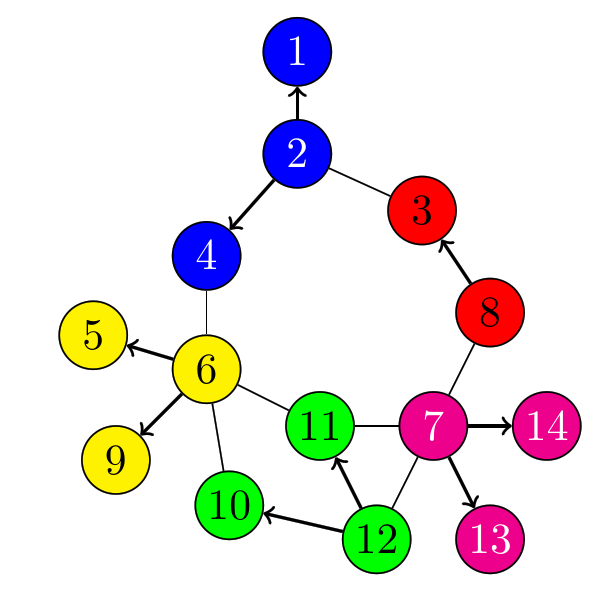
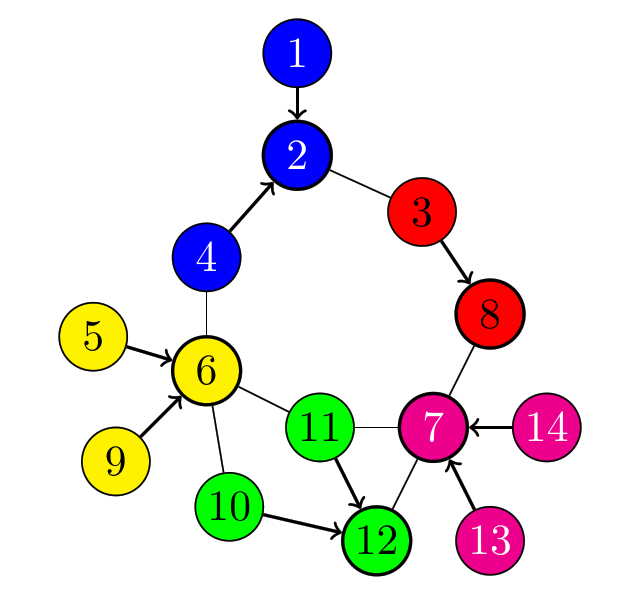
worked on the use case "capacitated dominating set" (documentation); described problem and a simple program.

Changed region(s): [[0.0928, 0.0304, 0.9593, 0.973]]

diff --git a/doc/resources/users/use-cases/u1.md b/doc/resources/users/use-cases/u1.md
@@ -1,37 +1,124 @@
-# How to solve your first problem # {#u1}
-In this use case, we develop a branch-and-price algorithm for a combinatorial optimization problem
-without writing a single line of code. We only need to be able formulate our problem as a (mixed)
-integer program. For that we will use the \ZIMPL modeling language.
+# Branch-and-price without a single line of code # {#u1}
 
- capacitated dominating set problem
-
-\cite gcg:Li-etal:2018
-
-After that, we convert it to a solver-readable format using \ZIMPL.
-Finally, we will solve the problem with \GCG. 
-
-**The Problem**
-The Dominating Set problem is a classic NP-complete optimization problem defined as follows. For an
-undirected graph \f$G\f$ with vertex set \f$V\f$ , a dominating set \f$S\f$ is a subset of \f$V\f$ such that every vertex \f$v \in V\f$ is
-either in \f$S\f$ or adjacent to a vertex in \f$S\f$.
+> In this first use case, we develop a branch-and-price algorithm for
+> a combinatorial optimization problem without writing a single line
+> of code. We only need to be able formulate our problem as a (mixed)
+> integer program. For that we will use the \ZIMPL modeling language.
 
 
+#### The Problem ####
 
-\image html cds-graph-potluri.png "example graph where all nodes have capacity 2" width=50%
+We consider a variant of a classic NP-hard combinatorial optimization
+problem. Given an undirected graph \f$G=(V,E)\f$, a *dominating set*
+\f$S\subseteq V\f$ is a subset of the vertices, such that every vertex
+\f$i \in V\f$ is in \f$S\f$ or adjacent to a vertex in \f$S\f$. We say
+that every vertex not in \f$S\f$ is *dominated* by a vertex in
+\f$S\f$. For the *capacitated dominating set problem* we are
+additionally given vertex weights \f$u:V\rightarrow
+\mathbb{Z}_+\f$. Loosely speaking, every vertex \f$i \in V\f$ can
+dominate at most \f$u(i)\f$ many other vertices. More formally, a
+subset \f$S\subseteq V\f$ is a capacitated dominating set if and only
+if there exists a mapping \f$f:V\setminus S\rightarrow S\f$ such that
+the number of vertices mapped under \f$f\f$ to \f$i\in S\f$ is no more
+than \f$u(i)\f$.
 
 
-The example is taken from \cite gcg:PotluriSingh:2012,  all nodes have capacity 2, and a minimum capacitated dominated set consists of \f$S=\{2,6,7,8,12\}\f$.
 
-**Mixed Integer Program**
+The following example graph is taken from \cite gcg:PotluriSingh:2012. 
+All vertices have capacity 2, and a minimum capacitated dominated set
+consists of e.g., \f$S=\{2,6,7,8,12\}\f$. An arc \f$(i,j)\f$ is
+interpreted as ''\f$i\f$ is dominated by \f$j\f$,'' representing a 
+possible mapping \f$f\f$.
 
-\f{aligned}{
-  & \underset{x}{\text{min}}
-  & & c^T x \\
-  & \text{s.t.} & &  Ax \leq b_i \\
-  & & &  \sum_{i=1}^{n} x_i =1 \\
-  & & &  x_j, \; \forall j \in N. \\
+\image html cds-graph-potluri.png "example graph where all vertices have capacity 2" width=50%
+
+
+
+#### A Binary Program ####
+
+The following intuitive model was presented in \cite gcg:Li-etal:2018
+(actually, we corrected it a bit). We use variables
+\f$x_i\in\{0,1\}\f$, \f$i\in V\f$, to represent whether \f$i\in S\f$,
+i.e., it is in the dominating set or not. The mapping \f$f\f$ is
+represented by variables \f$y_{ij}\in\{0,1\}\f$, \f$\{i,j\}\in E\f$,
+that we interpret as \f$y_{ij}=1 \iff f(j)=i\f$, that is, when \f$j\f$
+is dominated by \f$i\f$. Define \f$N(i)=\{j\in V : \{i,j\}\in E\}\f$
+as the set of *neighbors* of \f$i\in V\f$.
+
+
+\f{align}{
+  & \text{min}
+  & & \sum_{i\in V}x_i \\
+  & \text{s.t.} & & \sum_{j\in N(i)} y_{ji} \geq 1 - x_i & i\in V \\
+  & & & \sum_{j\in N(i)} y_{ij} \leq u_i x_i & i\in V \\
+  & & & y_{ij} \leq x_i & i\not=j\in V \\
+  & & & x_i\in\{0,1\} & i\in V \\
+  & & & y_{ij}\in\{0,1\} & \{i,j\}\in E 
   \f}
 
-**Conversion using \ZIMPL**
+The objective function minimizes \f$|S|\f$. Every vertex is dominated
+by a neighbor or is itself in \f$S\f$; and no vertex can dominate more
+vertices than given by its capacity (the capacity is available only if
+the vertex is in \f$S\f$). The linking constraints ensure that a
+vertex can dominate another only when it is selected in \f$S\f$.
+
+A \ZIMPL model file ([download](potluri+singh.zpl)) for the above instance is as follows: 
+
+```
+# vertices 
+set V := {1 .. 14};
+# (undirected) edges
+set E := {<1,2>, <2,3>, <2,4>, <4,6>, <3,8>, <7,8>, <5,6>, <6,9>, <6,10>, <6,11>, <7,11>, <7,12>, <7,13>, <7,14>, <10,12>, <11,12>};
+# (directed) arcs, produced from (undirected) edges
+set A := E union {<j,i> in V*V with <i,j> in E};
+
+# uniform capacity of 2 for each vertex
+param cap[<v> in V] := 2;
+
+# neighbors of v
+defset N(v) := {<i> in V with <v,i> in A};
+
+
+# is v selected in the dominating set?
+var x[V] binary;
+
+# for <i,j> in A: is j dominated by i?
+var y[A] binary;
+
+
+minimize cost: sum<v> in V: x[v];
+
+# every vertex v must be dominated by some vertex i (unless v is selected)
+subto dominate:
+	forall <v> in V: sum<i> in N(v): y[i,v] >= 1 - x[v];
+
+# the domination capacity of each vertex must be respected
+subto capacity:
+	forall <v> in V: sum<i> in N(v): y[v,i] <= x[v]*cap[v];
+
+# link the y and the x variables
+subto link:
+	forall <v> in V: forall <i> in N(v): y[v,i] <= x[v];
+
+```    
+    
+
+Of course, you can use any modeling language you like, or generate your model (typically in `*.lp` or `*.mps` format) using a script. A bonus from using \ZIMPL is that \GCG can directly read the model file.
+
+
+
+If you are interested, Potluri and Singh \cite gcg:PotluriSingh:2012 made all their instances [publicly available for download](http://scis.uohyd.ac.in/~apcs/capmds/), together with the `C` code for their heuristics. We provide \ZIMPL model files that read their input, for [uniform](CDS_uni.zpl) and [variable](todo) capacities.
+
+The authors .. provide the data they used in their publication [here] and a general \ZIMPL that can read their instances as input is [here (local ressource)].
+
+
+
 
 **Optimization in \GCG**
+
+
+
+
+was it worth it?
+
+compare \SCIP on the original model, \GCG with our selected decomposition, and \GCG automatic detection. performance profiles.
